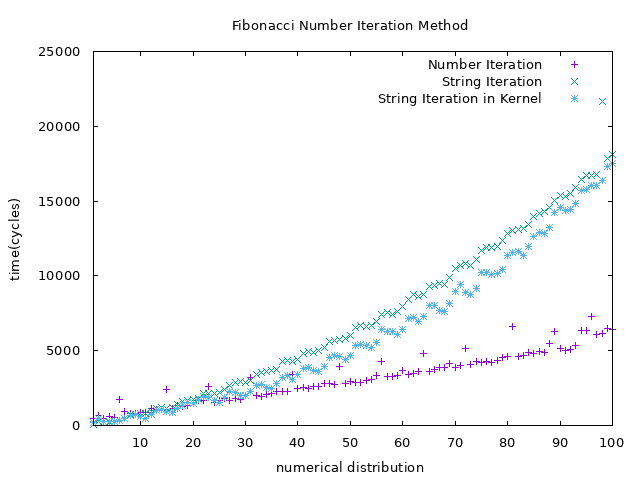
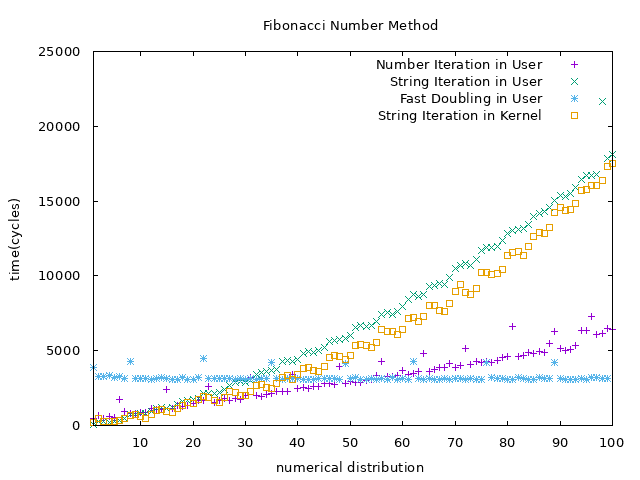
fast doubling

diff --git a/fibnum.c b/fibnum.c
@@ -37,7 +37,7 @@ void fib_resize(fib_t *F, size_t S){
     if(F->size < S)
         for(int i = F->size; i < S; i++)
             F->num[i] = 0;
-            
+
     F->size = S;
 }
 
@@ -377,8 +377,6 @@ void fib_add(fib_t *prev1, fib_t *prev2, fib_t *F){
     int msb = MAX(m1, m2);
     int size = MAX(NEED_SIZE(m1), NEED_SIZE(m2));
 
-    printf("msb = %d, size = %d\n", msb, size);
-
     if(NEED_SIZE(msb) < NEED_SIZE(msb + 1)){
         fib_resize(F, NEED_SIZE(msb + 1));
     }else if(size > F->size)
@@ -394,7 +392,6 @@ void fib_add(fib_t *prev1, fib_t *prev2, fib_t *F){
         F->num[i] = sum;
         carry = DETECT_OVERFLOW(p1, p2, carry); 
     }
-
 
     if(carry){
         fib_resize(F, F->size + 1);
@@ -470,14 +467,15 @@ void fib_mul(fib_t *prev1, fib_t *prev2, fib_t *F){
      * Thus, 1283 * 4567 = (1283 << 12) + (1283 << 8) + (1283 << 7) + (1283 << 6)...
      */
 
-    
-
     size_t m2 = fib_msb(prev2);
     
+
+
     fib_zero(F);
     fib_t *temp = fib_init(1);
-
+    // printf("MMM\n");
     for(int i = 0; i <= m2; i++){
+        // printf("M: %d\n", fib_bitisone(prev2, i));
         if(fib_bitisone(prev2, i)){           
             /* prev1 shift left and add to F */
             fib_lsh(prev1, i, temp);
@@ -509,35 +507,74 @@ void fibnum_iter(unsigned int n){
     return;
 }
 
-void fibnum_fast_doubling(unsigned int n){
+char* fibnum_fast_doubling(unsigned int n){
+    
     /**
      * @brief Fast Doubling Method
      * F(2k)     = F(k) * (2F(k+1) - F(k))
      * F(2k + 1) = F(k) * F(k) + F(k+1) * F(k+1)
      */
-    
-    fib_t *k = fib_init(2);
-    fib_t *k1 = fib_init(1);
-    k1->num[0] = 1;
 
-    fib_t *F = fib_init(1);
-    fib_t *F1 = fib_init(1);
+    fib_t *f1 = fib_init(1); // F(k)
+    fib_t *f2 = fib_init(1); // F(k + 1)
+    f1->num[0] = 1;
+    f2->num[0] = 1;
+    fib_t *k1 = fib_init(1); // F(2k)
+    fib_t *k2 = fib_init(1); // F(2k + 1)
+
+    int msb = 63 - gcc_clz(10);
+
 
     /* Fast Doubling */
-    for(unsigned long long i = 1UL << 63; i; i>>=1){
-        i++;
+    for(unsigned long long i = 1UL << msb; i > 0; i>>=1){
+        fib_t *t1 = fib_init(1), *f11 = fib_init(1), *f22 = fib_init(1);
+
+        /* F(2k) = F(k) * [ 2 * F(k+1) – F(k) ] */
+        fib_assign(f2, k1);  // k1 = f2
+        fib_lsh(k1, 1, k1);  // k1 = k1 * 2
+        fib_sub(k1, f1, k1); // k1 = k1 - f1
+        fib_mul(k1, f1, t1); // k1 = f1 * k1
+        fib_assign(t1, k1);
+
+        /* F(2k+1) = F(k)^2 + F(k+1)^2 */
+        fib_mul(f1, f1, f11); // f1 = f1 * f1
+        fib_mul(f2, f2, f22); // f2 = f2 * f2
+        fib_add(f11, f22, k2); // k2 = f2 + k2    
+        fib_free(t1), fib_free(f11), fib_free(f22);
+
+        if (n & i) {
+            fib_assign(k2, f1);
+            fib_assign(k1, f2);
+            fib_add(f2, k2, f2);
+        } else {
+            fib_assign(k1, f1);
+            fib_assign(k2, f2);
+        }
     }
 
-    fib_free(k);
+    char *s = fib_print(k1);
+
     fib_free(k1);
-    fib_free(F);
-    fib_free(F1);
+    fib_free(k2);
+    fib_free(f1);
+    fib_free(f2);
+
+    return s;
 }
 
 #include <time.h>
 int main(){
     
-    fibnum_fast_doubling(100);
-
+    for(int i = 0; i <=10000; i++){
+        struct timespec start, end;
+        clock_gettime(CLOCK_MONOTONIC, &start);
+        char* s  = fibnum_fast_doubling(999);
+        clock_gettime(CLOCK_MONOTONIC, &end);
+        long long ut = (long long)(end.tv_sec * 1e9 + end.tv_nsec)
+                 - (start.tv_sec * 1e9 + start.tv_nsec);
+        printf("%ld\n", ut);
+        free(s);
+    }
+    
     return 0;
 }

diff --git a/fibnum.h b/fibnum.h
@@ -1,5 +1,5 @@
 /**
- * @file fibnum.c
+ * @file fibnum.h
  * @author zoanana990
  * @brief 
  * @version 0.1
@@ -33,7 +33,8 @@ typedef struct fibnum{
 #define print_each_index(F) \
      for(int i=0; i<F->size; i++) \
         printf("num[%d] = %llu\n", i, F->num[i]) \
-     
+
+// #define MSB(x) 
 
 fib_t *fib_init(size_t);
 void fib_free(fib_t *);
